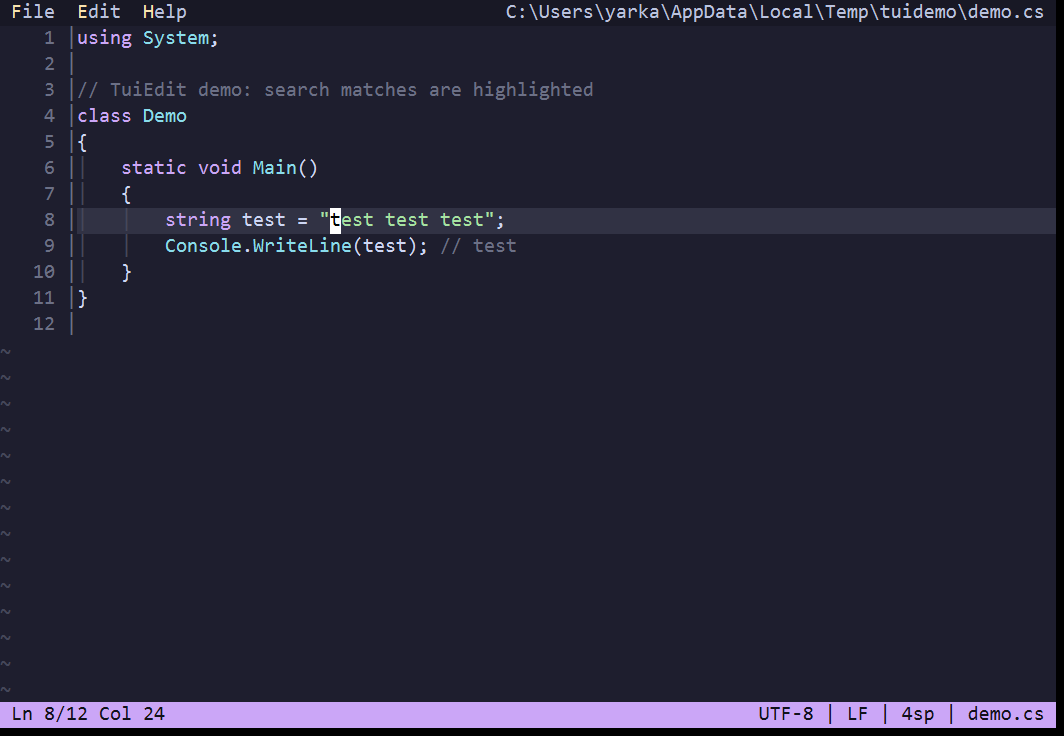
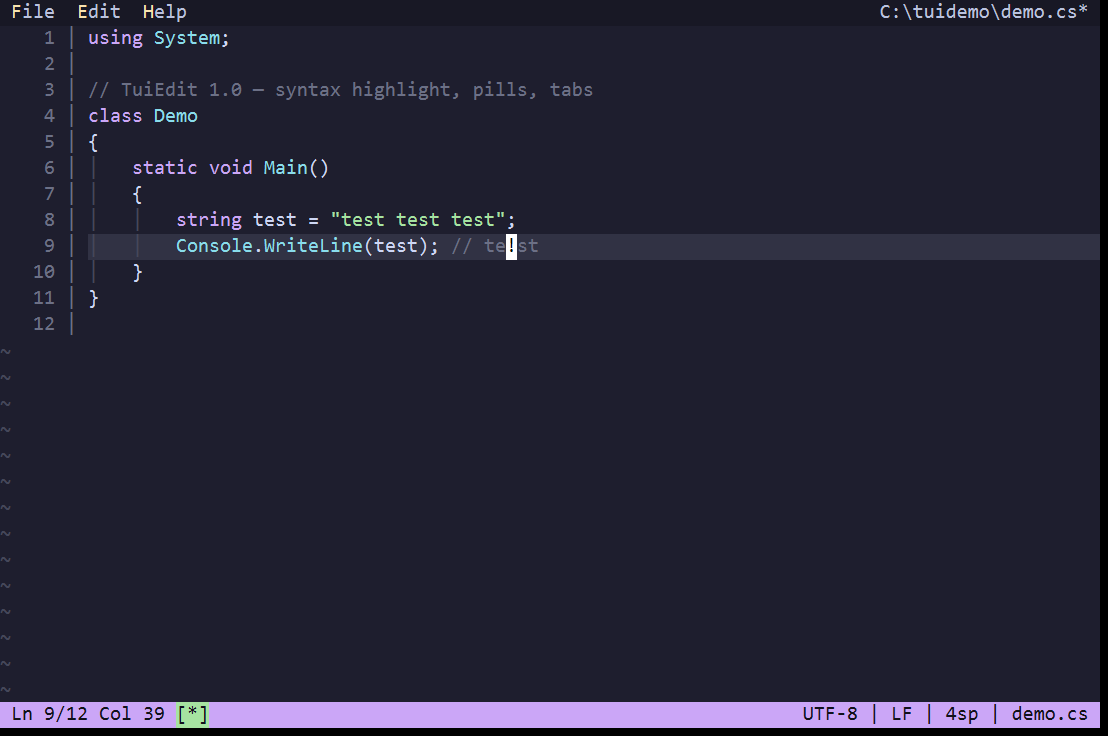
docs(shots): refresh screenshots for 1.0, add themes showcase

diff --git a/README.md b/README.md
@@ -7,18 +7,20 @@ See [CHANGELOG.md](CHANGELOG.md) for release history.
 
 ## Features
 
-- Editing: undo/redo (per keystroke and per block), `Shift+arrows` selection, cut/copy/paste line (`^K`, `^C`, `^U`/`^V`), duplicate (`^D`), toggle line comment (`Ctrl+/`), matching-bracket highlight and jump (`Alt+]`), move lines (`Alt+↑/↓`), word-wise delete/move, trim trailing whitespace, sort lines, auto-pairs for brackets/quotes (toggle in Settings).
+- Editing: undo/redo (per keystroke and per block) plus time travel (`F12`: `earlier`/`later` by steps or `5m`/`30s`), `Shift+arrows` selection, cut/copy/paste line (`^K`, `^C`, `^U`/`^V`), duplicate (`^D`), toggle line comment (`Ctrl+/`), matching-bracket highlight and jump (`Alt+]`), move lines (`Alt+↑/↓`), word-wise delete/move, trim trailing whitespace, sort lines, auto-pairs for brackets/quotes (toggle in Settings).
+- More editing power: surround with any pair (`^L` add, `Alt+L` change, `Alt+J` delete), light registers (`^X` then `a-z`/`0-9`), filter selection through any shell command (`^R`, e.g. `sort`, `jq`), jumplist back/forward (`Alt+←/→`).
 - Find (`^F`, `F3`/`Shift+F3`): live highlight while typing, wrap-around, `k/N` counter, match case / whole words / regex toggles right in the prompt (`Alt+C/W/R`). Instant whole-document replace (`^H`) in a single undo step, with confirmation past 50 matches showing a before/after preview of the first hit. Grep across files (`Ctrl+Shift+F`) with jump-to-hit.
 - Syntax highlighting from JSON grammars (C#, Python, JavaScript/TypeScript, JSON, Markdown, PowerShell, XML, INI built in). On first run the grammars are extracted to the `grammars` folder next to `settings.json` — edit them to customize, drop in your own.
 - File manager for Open/Save as: drives, `..`, file highlight with sizes, overwrite confirmation in a separate window. `F7` new folder, `F2` rename, `F8` delete (with confirmation, recursive), `Ctrl+H` hidden files. Name field and Find/Replace/GoTo prompts share one line editor: selection (`Shift`), word-wise motion (`Ctrl+arrows`), word delete (`Ctrl+BS/Del`), `Alt+←/→` navigation in the manager.
 - Format preservation: encoding (UTF-8/BOM/UTF-16), line endings (CRLF/LF/CR) and indent are detected on open and kept on save; all three are switched in the File format dialog (`F9`, shown in the status bar). Read-only files are flagged `[read-only]` and refuse to save.
-- `dark`/`light` themes, `en`/`ru` languages, line numbers (`Alt+N`), word wrap (`Alt+Z`), indent guides, whitespace marks (`Alt+.`), ruler column, git diff gutter, help screen (`F1`).
+- Five built-in themes (`dark`, `light`, `3024 Night`, `Paper`, `Posting`) plus your own schemes, `en`/`ru` languages, line numbers (`Alt+N`), word wrap (`Alt+Z`), indent guides, whitespace marks (`Alt+.`), ruler column, git diff gutter, help screen (`F1`). The status bar layout is customizable (`StatusFormatLeft/Right` with `$(...)` verbs) and states render as pills (`[*]`, `[read-only]`).
 - Bookmarks (`F2` toggle, `Shift+F2` next, gutter `●`), indent folding (`Alt+-`), buffer-word completion (`Ctrl+Space`), document stats (`F4`).
 - Optional session restore: reopen the previous tabs with cursor positions when started without arguments (off by default, toggle in Settings); dirty untitled tabs round-trip with their content.
 - File tree (`Ctrl+B`): fixed-width sidebar with an expandable folder tree (`Enter`/`←`/`→`), git change marks (folders aggregate), `Enter` opens files, `Esc` back to text. Walking the tree previews files in a single tab (same tab is reused; `Enter` pins it, edits pin it automatically). `F7` new file/folder, `F2` rename, `Del` delete with two-step confirm. Entries are color-coded: dirs, hidden and executables.
-- Tabs: open tab bar (`Ctrl+T` new, `Ctrl+W` close, `Ctrl+PgDn/PgUp` switch, `Alt+1..9,0` jump, `Ctrl+P` list); long rows scroll with the active tab always visible; dirty tabs ask on close, quitting walks through them one by one. Quick-open files by name across the project (`Alt+O`), command line (`F12`: `set` incl. `encoding`/`ending`/`indent`, `goto`, `find`, `save`, `quit`).
+- Tabs: open tab bar (`Ctrl+T` new, `Ctrl+W` close, `Ctrl+PgDn/PgUp` switch, `Alt+1..9,0` jump, `Ctrl+P` list); long rows scroll with the active tab always visible; dirty tabs ask on close, quitting walks through them one by one. Quick-open files by name across the project (`Alt+O`, `ft:cs` filters by extension), command line (`F12`: `set` incl. `encoding`/`ending`/`indent`, `goto`, `find`, `earlier`, `later`, `save`, `quit`) with history (`Up`/`Down`) and completion (`Tab`).
+- Startup dashboard with recent files (`1-9`/`Enter` to open, any key types through).
 - Split view (`Alt+S`): two or more panes side by side, each with its own tabs; `F6`/`Shift+F6` or `Ctrl+1..9` move focus (tab keys act on the focused pane).
-- System clipboard via OSC52 (Windows Terminal): `^C` copies, paste with `Ctrl+V`.
+- System clipboard via OSC52 (Windows Terminal) with fallback to native tools (`clip`, `pbcopy`, `wl-copy`/`xclip`/`xsel`): `^C` copies, paste with `Ctrl+V`.
 
 ## Hotkeys
 
@@ -29,6 +31,8 @@ File menu — Save all, File format (`F9`)
   (in Find: Alt+C match case, Alt+W whole words, Alt+R regex)
 ^K cut line  ^U/^V paste  ^C copy line  ^D duplicate
 Ctrl+/ toggle line comment  Alt+] matching bracket
+^R filter through shell  ^L surround  Alt+L change surround  Alt+J unwrap
+^X register, then yank/paste  Alt+Left/Right — jumplist back/forward
 ^C also puts the copy into the system clipboard (Windows Terminal) — paste with Ctrl+V
 ^Z undo  ^Y redo  ^A select all   Shift+arrows — selection
 arrows/Home/End/PgUp/PgDn, Ctrl+arrows — by word, Ctrl+BS/Del — delete word, Ctrl+E/Home/End — doc start/end, Alt+up/down — move line
@@ -68,7 +72,19 @@ Full list: `tui-edit --help` or `F1` in the editor.
 |---|---|---|
 | ![Replace](docs/shots/replace.png) | ![Palette](docs/shots/palette.png) | ![Prompt](docs/shots/prompt.png) |
 
-![Help](docs/shots/help.png)
+| Dashboard | Help |
+|---|---|
+| ![Dashboard](docs/shots/dashboard.png) | ![Help](docs/shots/help.png) |
+
+## Themes
+
+Five built-ins, switchable in Settings or via `F12`: `set theme <name>`.
+
+| dark | Posting (dark) |
+|---|---|
+| ![dark theme](docs/shots/editor.png) | ![Posting theme](docs/shots/editor-posting.png) |
+
+Also `light`, `3024 Night` and `Paper` — plus your own schemes (see [Custom themes](#custom-themes)).
 
 ## Build & run
 
